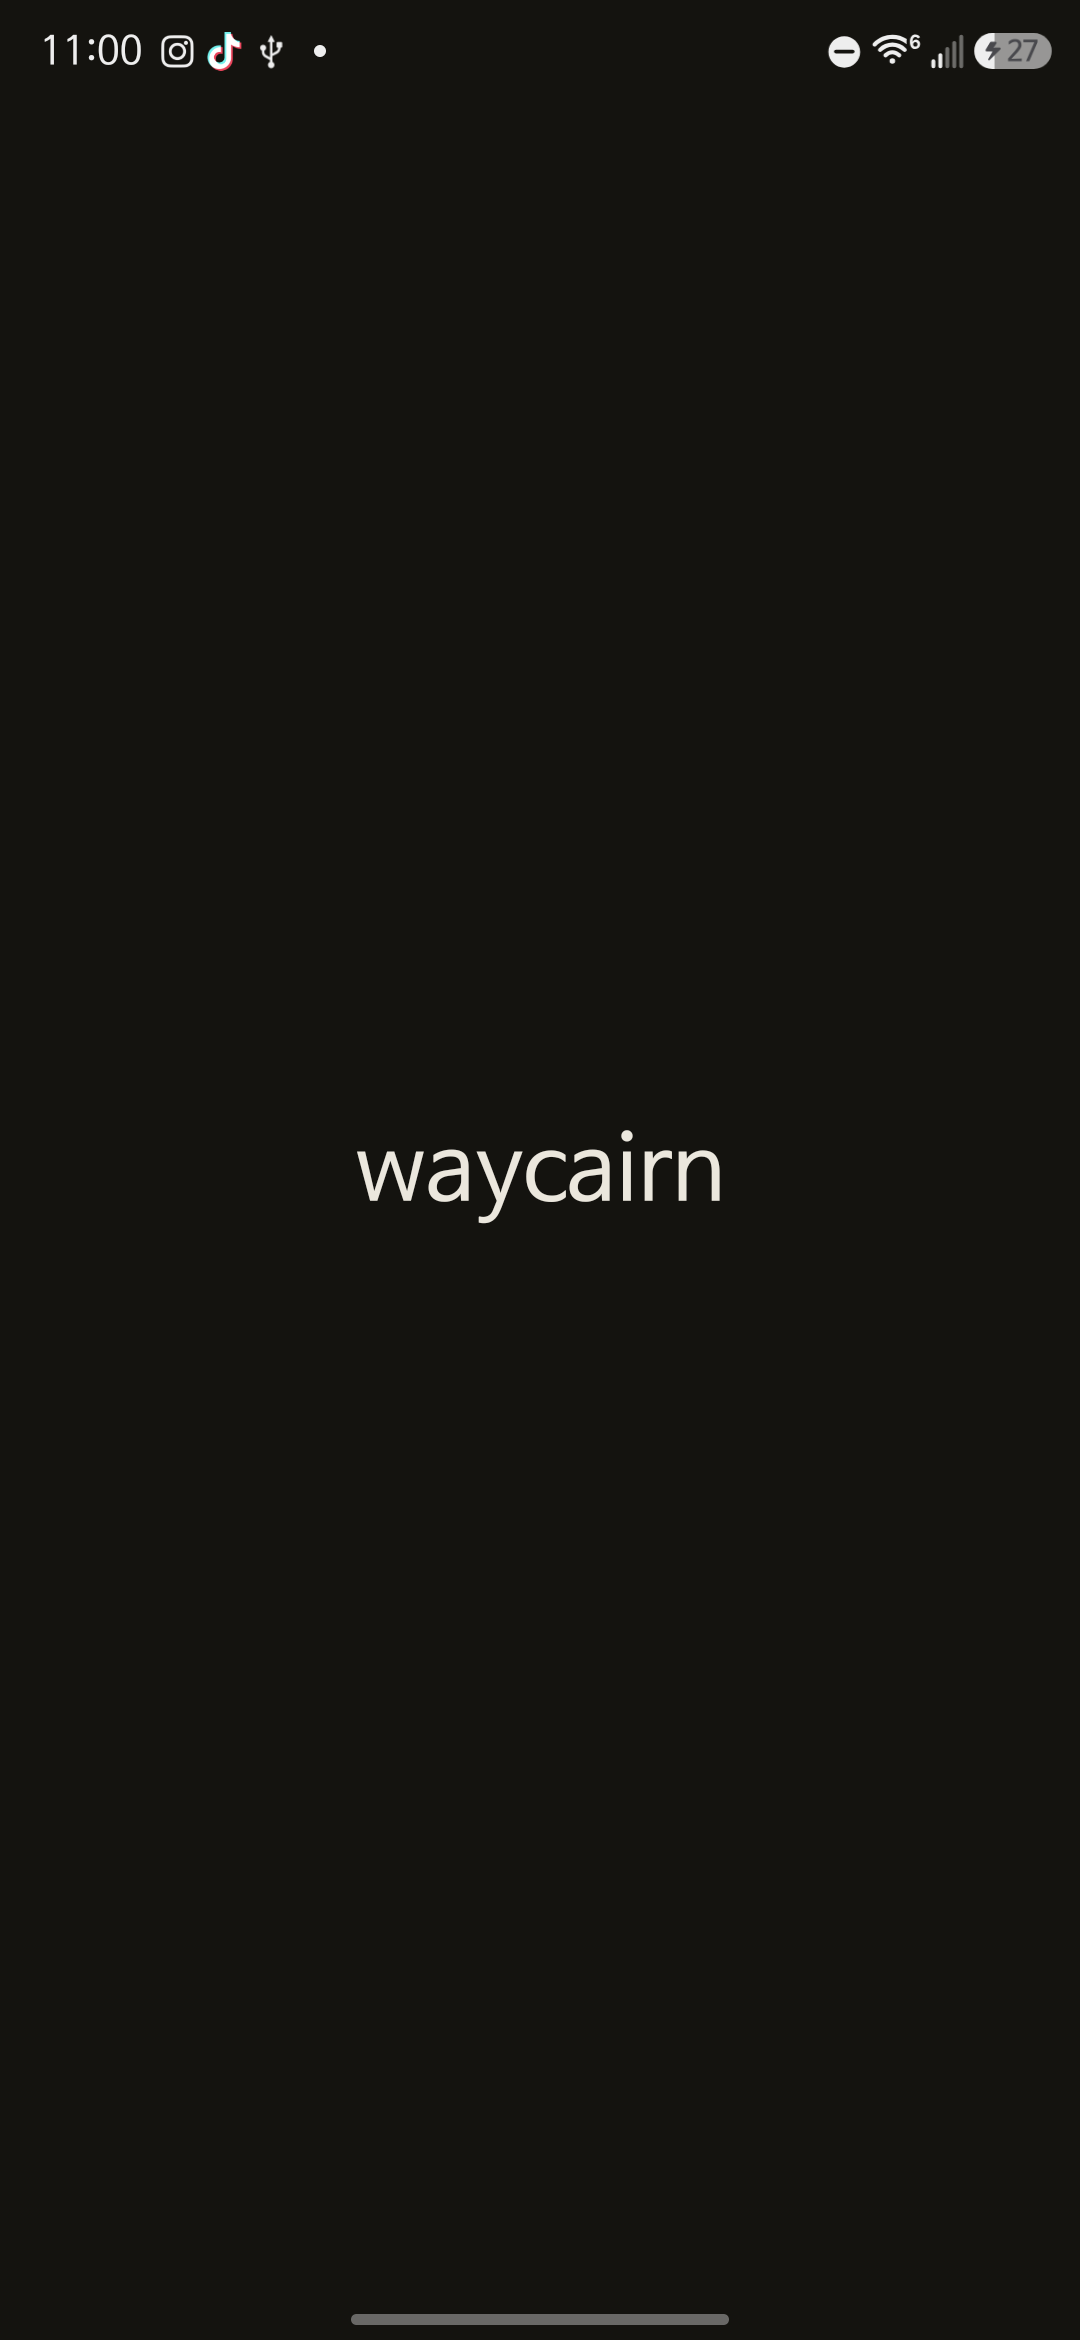
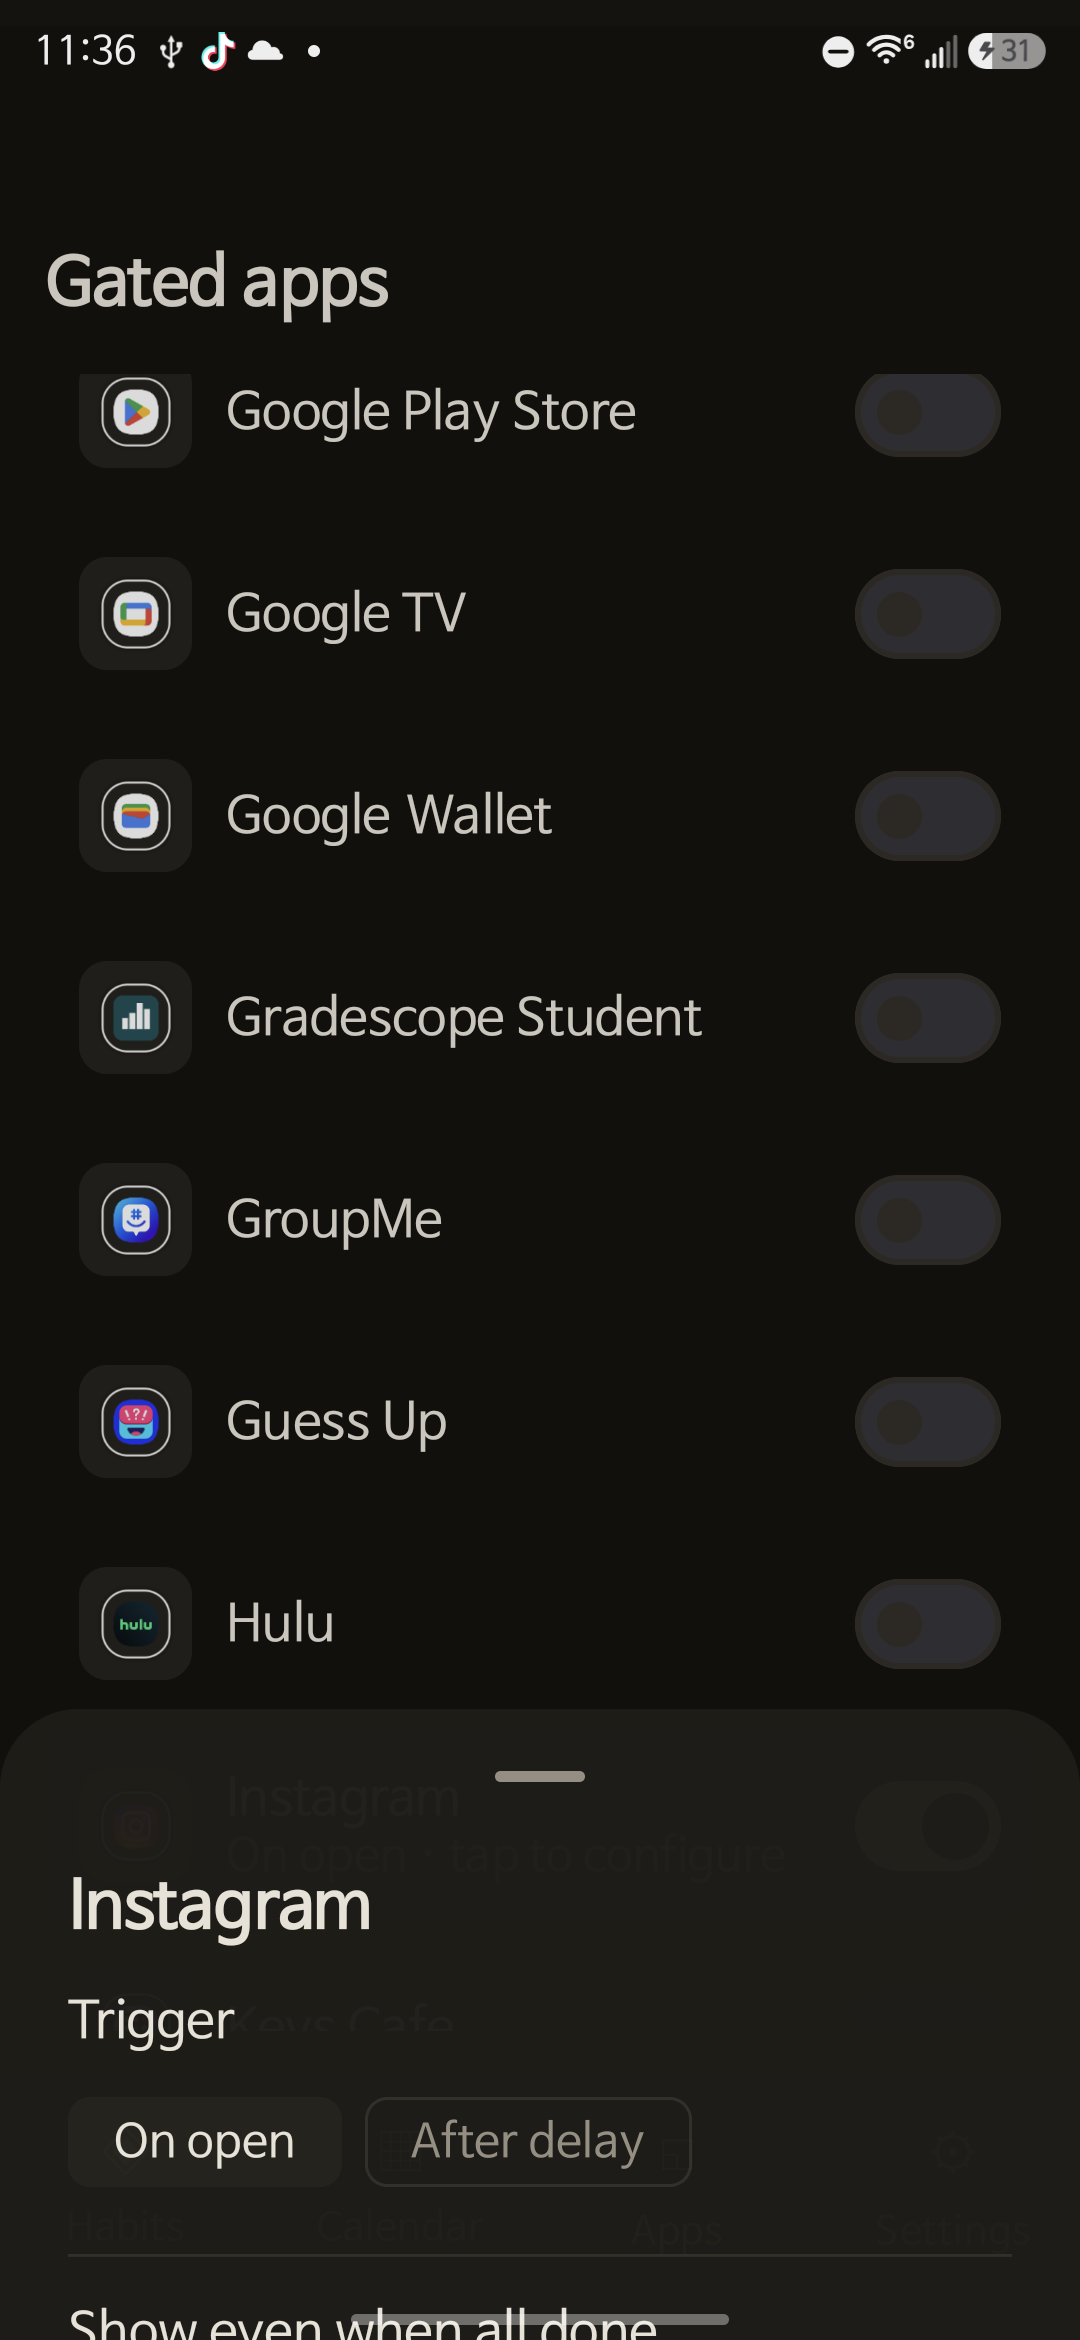
phase 3: accessibility service: detection done

diff --git a/app/src/main/java/com/waycairn/service/WaycairnAccessibilityService.kt b/app/src/main/java/com/waycairn/service/WaycairnAccessibilityService.kt
@@ -1,3 +1,42 @@
 package com.waycairn.service
 
-// TODO Phase 3: AccessibilityService — foreground app detection
+import android.accessibilityservice.AccessibilityService
+import android.util.Log
+import android.view.accessibility.AccessibilityEvent
+
+/**
+ * Phase 3: foreground app detection only.
+ *
+ * Listens for window-state changes and tracks the current foreground package. Later phases use
+ * transitions in [currentForegroundPackage] to detect when a gated app is entered (leave/return).
+ */
+class WaycairnAccessibilityService : AccessibilityService() {
+
+    /** Package name of the app currently in the foreground, or null if unknown. */
+    private var currentForegroundPackage: String? = null
+
+    override fun onAccessibilityEvent(event: AccessibilityEvent?) {
+        event ?: return
+        if (event.eventType != AccessibilityEvent.TYPE_WINDOW_STATE_CHANGED) return
+
+        val pkg = event.packageName?.toString() ?: return
+
+        // Ignore our own overlay/UI and the system UI shell — neither is a "foreground app" the
+        // interceptor should react to.
+        if (pkg == packageName || pkg == SYSTEM_UI_PACKAGE) return
+
+        if (pkg != currentForegroundPackage) {
+            currentForegroundPackage = pkg
+            Log.d(TAG, "Foreground package: $pkg")
+        }
+    }
+
+    override fun onInterrupt() {
+        // No-op: we do not hold any interruptible feedback.
+    }
+
+    companion object {
+        private const val TAG = "WaycairnA11y"
+        private const val SYSTEM_UI_PACKAGE = "com.android.systemui"
+    }
+}